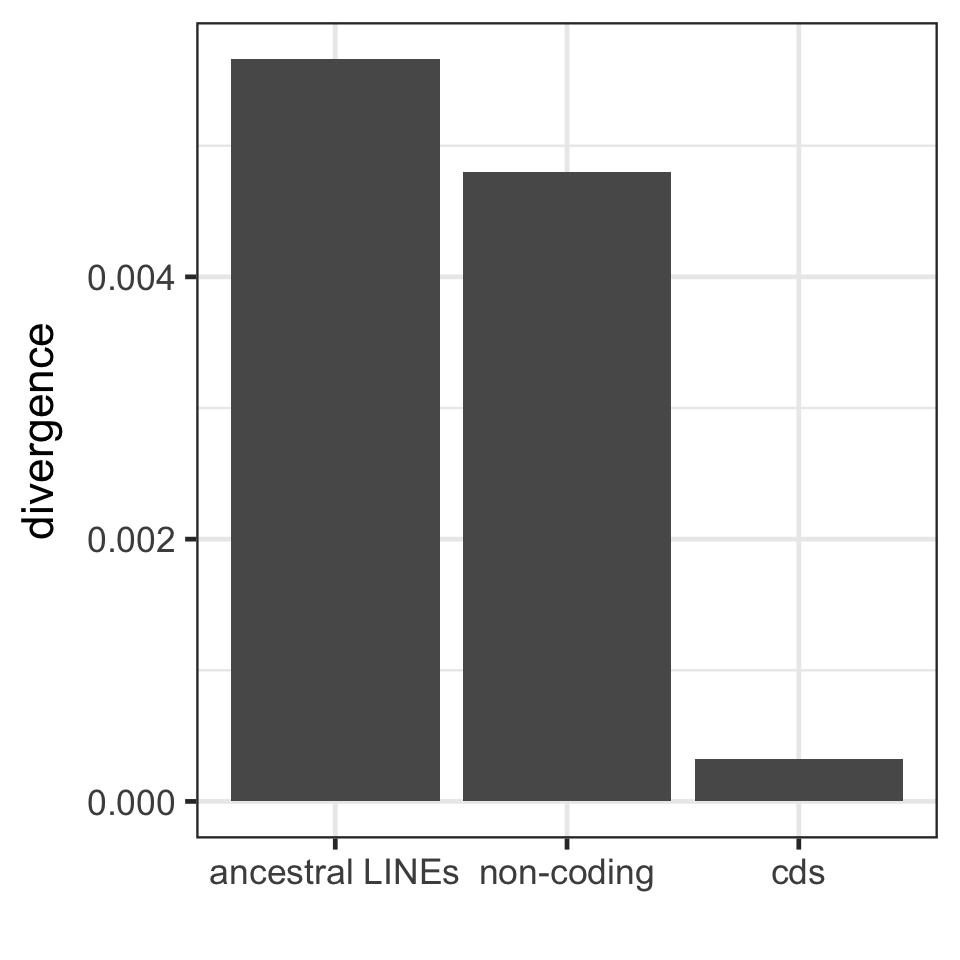
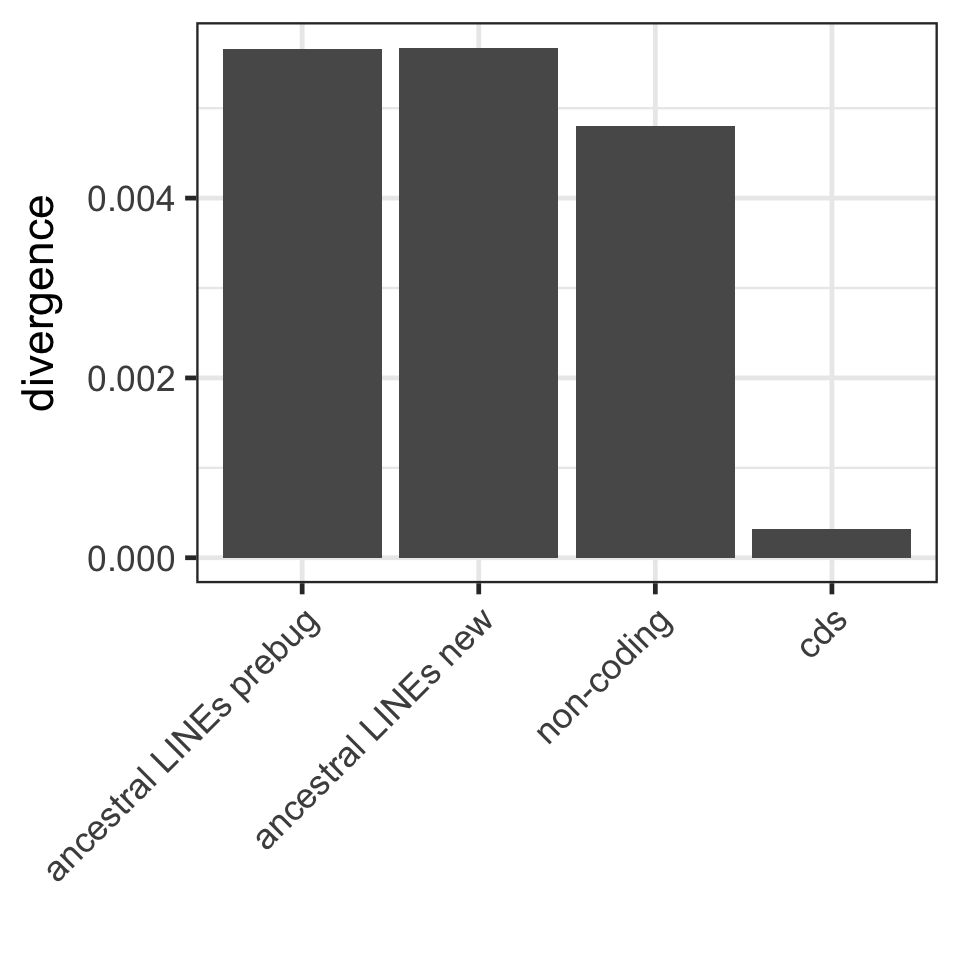
divergence post wga bug

diff --git a/summary_analyses/README.md b/summary_analyses/README.md
@@ -69,6 +69,7 @@ Simple INDEL divergence estimates were obtained from the whole genome alignment 
 $ ~/parus_indel/summary_analyses/indel_divergence.py -wga /fastdata/bop15hjb/bird_alignments/UCSC_pipeline/multiple_zhang_param/Zebrafinch.Flycatcher.Greattit.wga.bed.gz -bed /fastdata/bop15hjb/GT_ref/gt_cds.bed.gz -out /fastdata/bop15hjb/GT_data/BGI_BWA_GATK/Summary_stats/gt_cds_indel_divergence.txt
 $ ~/parus_indel/summary_analyses/indel_divergence.py -wga /fastdata/bop15hjb/bird_alignments/UCSC_pipeline/multiple_zhang_param/Zebrafinch.Flycatcher.Greattit.wga.bed.gz -bed /fastdata/bop15hjb/GT_ref/gt_noncoding.bed.gz -out /fastdata/bop15hjb/GT_data/BGI_BWA_GATK/Summary_stats/gt_noncoding_indel_divergence.txt
 $ ~/parus_indel/summary_analyses/indel_divergence.py -wga /fastdata/bop15hjb/bird_alignments/UCSC_pipeline/multiple_zhang_param/Zebrafinch.Flycatcher.Greattit.wga.bed.gz -bed /fastdata/bop15hjb/GT_ref/Zebrafinch.Flycatcher.Greattit.ancLINEs.sorted.bed.gz -out /fastdata/bop15hjb/GT_data/BGI_BWA_GATK/Summary_stats/gt_ancLINEs_indel_divergence.txt
+$ ~/parus_indel/summary_analyses/indel_divergence.py -wga /fastdata/bop15hjb/bird_alignments/gbgc_proj/Greattit.Zebrafinch.Flycatcher.wga.bed.gz -bed /fastdata/bop15hjb/GT_data/BGI_BWA_GATK/divergence_data/repeat_coordinates/LINE_intersect/Greattit.Zebrafinch.Flycatcher.ancLINEs.sorted.bed.gz -out /fastdata/bop15hjb/GT_data/BGI_BWA_GATK/Summary_stats/gt_ancLINEs_new_indel_divergence.txt -evolgen
 
 $ Rscript collate_indel_divergence.R 
 ```
